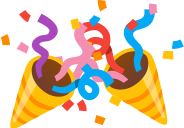
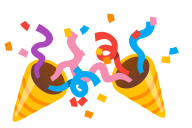
Give party-popper clusters more breathing room
Reduce individual cone scale to 80% in pairs and 70% in trios, spread the compositions across wider canvases, and stagger the middle cone. Keep all five streamer shape/colour permutations and the mirrored middle cone. Reduce same-family cluster kerning from 8% to 2% em so long runs are less crowded.

Rebuild the SVG, PNG and COLRv1 artwork pack. Extend clipping checks to party poppers, capture packaged-font popper previews, and update browser kerning expectations. Singleton artwork/spacing and all LFSR rules remain unchanged.

Validation: 45 tests and 812 subtests; native-font recovery in both formats; packaged TTF/WOFF2 shaping and Chromium desktop/mobile rendering, with calt on/off and kerning checks in COLRv1 and CBDT.

diff --git a/ligatures/supplemental/build_clusters.py b/ligatures/supplemental/build_clusters.py
@@ -221,7 +221,7 @@ def compose(family, count):
     source = ET.parse(ART/'source'/f'emoji_u{FAMILIES[family]:x}.svg').getroot()
     width = {('headstone',2):180, ('headstone',3):238,
              ('fireworks',2):188, ('fireworks',3):250,
-             ('popper',2):184, ('popper',3):244,
+             ('popper',2):192, ('popper',3):255,
              ('fire',2):174, ('fire',3):230,
              ('moneybags',2):180, ('moneybags',3):206}[family,count]
     root = ET.Element(T('svg'),width=str(width),height='128',viewBox=f'0 0 {width} 128')
@@ -241,11 +241,11 @@ def compose(family, count):
                      'translate(-3 15) scale(.88) rotate(-6 64 64)',
                      'translate(83 13) scale(.90) rotate(5 64 64)'))
     elif family == 'popper':
-        placements = (('translate(59 -1) scale(.96) rotate(8 64 64)',
-                       'translate(-1 8) scale(.94) rotate(-5 64 64)') if count==2 else
-                      ('translate(45 -5) scale(.96) rotate(3 64 64)',
-                       'translate(0 9) scale(.94) rotate(-6 64 64)',
-                       'translate(124 8) scale(.94) rotate(9 64 64)'))
+        placements = (('translate(75 13) scale(.80) rotate(8 64 64)',
+                       'translate(3 19) scale(.80) rotate(-5 64 64)') if count==2 else
+                      ('translate(72 6) scale(.70) rotate(3 64 64)',
+                       'translate(6 30) scale(.70) rotate(-6 64 64)',
+                       'translate(154 23) scale(.70) rotate(9 64 64)'))
     else:
         # Overlap at the bases, with a taller flame behind two lower flames.
         placements = (('translate(49 -2) scale(.99)', 'translate(-6 21) scale(.83)') if count==2 else

diff --git a/web/check_browser.py b/web/check_browser.py
@@ -72,7 +72,11 @@ def main():
                         return [after - before, parseFloat(getComputedStyle(node).fontSize)];
                     }""")
                     # Chromium versions differ in fractional glyph-advance rounding.
-                    assert abs(overlap[0] - overlap[1] * {'🧟': .22, '🌻': .35, '💩': .04, '🪦':.28, '🎆':217/1024, '🎉':.08, '🔥':.22, '💰':.18}[family]) < .6, (family, fmt, overlap)
+                    assert abs(overlap[0] - overlap[1] * {'🧟': .22, '🌻': .35, '💩': .04, '🪦':.28, '🎆':217/1024, '🎉':.02, '🔥':.22, '💰':.18}[family]) < .6, (family, fmt, overlap)
+                    if family == '🎉':
+                        page.locator('#text').fill('🎉'*12)
+                        page.locator('#clustered .emoji-run').screenshot(path=str(args.site/f'poppers-proof-{fmt}.png'))
+                        page.locator('#text').fill('🎉'*4)
                     if family == '💰':
                         page.locator('#text').fill('💰'*12)
                         page.locator('#clustered .emoji-run').screenshot(path=str(args.site/f'moneybags-proof-{fmt}.png'))

diff --git a/tests/test_cluster_ligatures.py b/tests/test_cluster_ligatures.py
@@ -888,12 +888,13 @@ class DecorativeClusterTests(unittest.TestCase):
 
 
 
-class MoneybagArtworkTests(unittest.TestCase):
-    def test_pile_is_not_clipped_by_canvas(self):
+class PileArtworkBoundsTests(unittest.TestCase):
+    def test_moneybags_and_poppers_are_not_clipped(self):
         from fixed_cluster_artwork import ART
         from PIL import Image
-        for size in (2,3):
-            with self.subTest(size=size), Image.open(ART/'png/128'/f'moneybags{size}.png') as image:
+        from itertools import product
+        for family,size in product(('moneybags','popper'),(2,3)):
+            with self.subTest(family=family,size=size), Image.open(ART/'png/128'/f'{family}{size}.png') as image:
                 alpha=image.convert('RGBA').getchannel('A')
                 box=alpha.getbbox()
                 self.assertIsNotNone(box)

diff --git a/fixed_cluster_artwork.py b/fixed_cluster_artwork.py
@@ -8,7 +8,7 @@ ART = Path(__file__).resolve().parent/'ligatures/supplemental/clusters'
 FAMILIES = {'headstone':0x1FAA6, 'fireworks':0x1F386, 'popper':0x1F389, 'fire':0x1F525, 'moneybags':0x1F4B0}
 NAMES = tuple(f'{family}{size}' for family in FAMILIES for size in (2,3))
 # Close the margins between silhouettes, leaving singleton-singleton untouched.
-OVERLAP = {0x1FAA6:.28, 0x1F386:217/1024, 0x1F389:.08, 0x1F525:.22, 0x1F4B0:.18}
+OVERLAP = {0x1FAA6:.28, 0x1F386:217/1024, 0x1F389:.02, 0x1F525:.22, 0x1F4B0:.18}
 
 
 def verify_bundle():

diff --git a/ligatures/supplemental/CLUSTERS.md b/ligatures/supplemental/CLUSTERS.md
@@ -6,8 +6,9 @@ inscriptions and a smaller rear row. Fireworks use five distinct explosions acro
 pink full bloom, cyan opening, green willow trails and coral fading embers,
 with different heights and ray layouts. Poppers vary paper colours/positions and
 reverse the middle cone; each of the five poppers has a distinct permutation
-of three streamer shapes across the same outward-facing slots. Cone stripes
-and shading are unchanged. The middle flame also curls the opposite way. The native singleton is
+of three streamer shapes across the same outward-facing slots. Cones use 80% scale in the pair and 70% in the wider trio, with more room
+for their bodies and streamer clouds. Cluster-boundary kerning is only 2%
+of an em. Cone stripes and shading are unchanged. The middle flame also curls the opposite way. The native singleton is
 unchanged. These families share binary history with every other cluster family, using
 alternating startup and the period-31 binary LFSR to mix pairs and trios,
 with one fixed artwork choice for each size. The diversity generators do not

diff --git a/MODIFIERS.md b/MODIFIERS.md
@@ -188,7 +188,8 @@ and trio. Matching vertical sky gradients and overlap kerning conceal the
 rounded interior corners, without contextual background variants. Clear sky
 margins keep all sparks outside the overlapping regions. Moneybags form overlapping piles with readable dollar signs and a smaller rear
 bag in the trio. Middle poppers/flames are mirrored; streamers and confetti
-have different positions and colours.
+have different positions and colours. Poppers have smaller, more separated cones
+and only 2% em boundary kerning so repeated runs stay airy.
 
 `ligatures/supplemental/build_clusters.py` composes the pinned Noto vectors and
 builds the checked-in unencoded bitmap/COLRv1 pack. `fixed_cluster_artwork.py`
